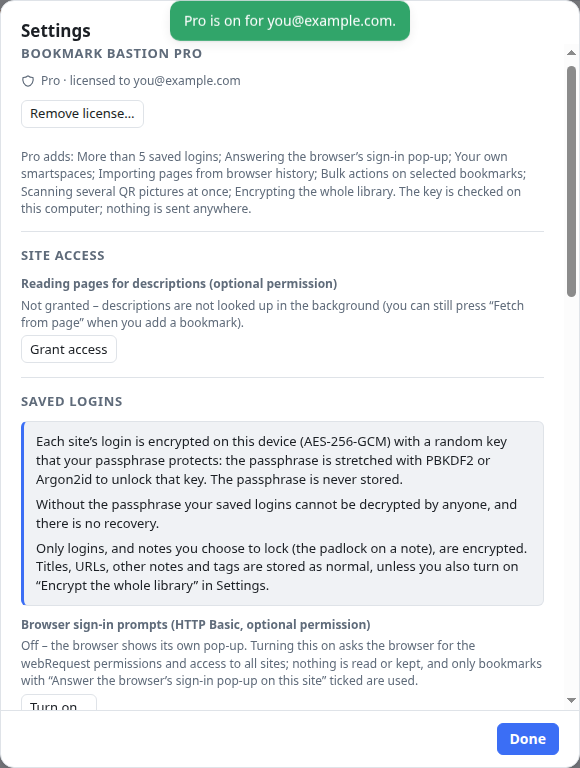
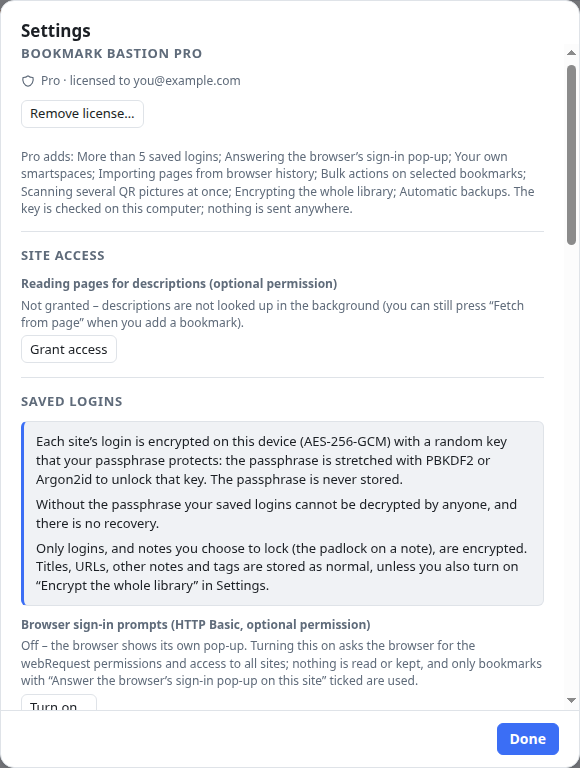
Documentation for v1.46.0
Author: DoggByte

diff --git a/README.md b/README.md
@@ -2,7 +2,7 @@
 
 **A workspace-based bookmark manager for Chromium browsers** (Chrome, Edge, Brave, Vivaldi, Opera and others). Keep every bookmark in one place and group them into as many workspaces as you like, without ever saving a page twice.
 
-- **Version:** 1.45.0 · [release notes](https://github.com/DoggByte/bookmark-bastion/releases/tag/v1.45.0) · [CHANGELOG](CHANGELOG.md)
+- **Version:** 1.46.0 · [release notes](https://github.com/DoggByte/bookmark-bastion/releases/tag/v1.46.0) · [CHANGELOG](CHANGELOG.md)
 - **Author:** DoggByte · [doggbyte.com](https://doggbyte.com) · [doggbyte@bert2go.com](mailto:doggbyte@bert2go.com)
 - **Works in:** any Chromium-based browser that runs Chrome extensions (version 110 or newer). Firefox and Safari are not supported.
 - **Privacy:** no account, no server, no tracking. Your library stays on your computer.
@@ -29,8 +29,8 @@ The full story is in the [user guide](USER-GUIDE.md), and the [tutorials](tutori
 
 Bookmark Bastion is **not in a web store**, so you install it by hand. It takes about two minutes and works the same in every Chromium browser.
 
-1. **Download** [`bookmark-bastion-v1.45.0.zip`](https://github.com/DoggByte/bookmark-bastion/releases/download/v1.45.0/bookmark-bastion-v1.45.0.zip) from the [latest release](https://github.com/DoggByte/bookmark-bastion/releases/tag/v1.45.0).
-   *(Optional: check the download against `SHA256SUMS.txt` from the same page. On Linux or macOS run `shasum -a 256 bookmark-bastion-v1.45.0.zip`, on Windows `certutil -hashfile bookmark-bastion-v1.45.0.zip SHA256`. The two values must be identical.)*
+1. **Download** [`bookmark-bastion-v1.46.0.zip`](https://github.com/DoggByte/bookmark-bastion/releases/download/v1.46.0/bookmark-bastion-v1.46.0.zip) from the [latest release](https://github.com/DoggByte/bookmark-bastion/releases/tag/v1.46.0).
+   *(Optional: check the download against `SHA256SUMS.txt` from the same page. On Linux or macOS run `shasum -a 256 bookmark-bastion-v1.46.0.zip`, on Windows `certutil -hashfile bookmark-bastion-v1.46.0.zip SHA256`. The two values must be identical.)*
 2. **Unzip it into a folder that will stay where it is**, for example `Documents\Bookmark Bastion` or `~/Apps/bookmark-bastion`. The browser loads the extension from this folder every time it starts, so do not put it in Downloads or on the Desktop, and do not delete it afterwards. After unzipping, the folder must contain a file named `manifest.json` directly inside it, not inside another folder.
 3. **Open the extensions page** of your browser: type `chrome://extensions` in the address bar (`edge://extensions` in Edge, `brave://extensions` in Brave, `vivaldi://extensions` in Vivaldi, `opera://extensions` in Opera) and press Enter.
 4. **Turn on Developer mode.** The switch is at the top right (in Edge it is at the bottom left of the page, in Opera at the top right).
@@ -68,7 +68,7 @@ The zip above never updates itself: use **Settings → Updates → Check for upd
 
 | File | What it is |
 | --- | --- |
-| `bookmark-bastion-v1.45.0.crx` | the extension, packed and signed |
+| `bookmark-bastion-v1.46.0.crx` | the extension, packed and signed |
 | `updates.xml` | tells the browser which version is the newest and where its file is |
 | `bookmark-bastion-policy.json` | the browser setting that installs the packed copy and keeps it updated |
 
@@ -76,7 +76,7 @@ The zip above never updates itself: use **Settings → Updates → Check for upd
 
 **On Linux (Brave, Chrome, Chromium or Edge):**
 
-1. Download `bookmark-bastion-policy.json` from the [latest release](https://github.com/DoggByte/bookmark-bastion/releases/tag/v1.45.0).
+1. Download `bookmark-bastion-policy.json` from the [latest release](https://github.com/DoggByte/bookmark-bastion/releases/tag/v1.46.0).
 2. Copy it into the browser's managed-policy folder (this needs `sudo`; the file name is up to you):
    - Brave: `/etc/brave/policies/managed/`
    - Chrome: `/etc/opt/chrome/policies/managed/`

diff --git a/USER-GUIDE.md b/USER-GUIDE.md
@@ -961,7 +961,7 @@ Without a license nothing is ever hidden or deleted: logins, smartspaces and set
 
 - **Getting Pro.** Go to [ko-fi.com/doggbyte](https://ko-fi.com/doggbyte) and choose **$5 for a 1-year license** or **$10 for a lifetime license**. **In the Ko-fi note, write which license you want (1-year or lifetime) and the email address to send the key to.** Your license key (it starts with `BB1.`) is sent to that address within 24 hours. Pro includes support and free updates for the length of the license you choose. The same link is in **Settings → Bookmark Bastion Pro**, under the key box, and in every notice that says a feature needs Pro.
 - **Upgrading from 1 year to lifetime.** Make another **$5** payment on Ko-fi: you only pay the difference, so the two payments add up to the $10 lifetime price. Write in the note that it is an upgrade, together with the activation key of your 1-year license and the email address to send the new key to.
-- **Entering a key.** Open **Settings → Bookmark Bastion Pro**, paste the key (it starts with `BB1.`; spaces and line breaks from a copied key are ignored) and press **Activate** or Enter. The status line then says who the license is for and when it ends, if it ends.
+- **Entering a key.** Open **Settings → Bookmark Bastion Pro**, paste the key (it starts with `BB1.`; spaces and line breaks from a copied key are ignored) and press **Activate** or Enter. A thank-you certificate opens with fireworks and confetti and their sound, which start gently, build up to a finale of many bursts at once over about a minute, and then let the last confetti fall (a soft chime and no animation if your system asks for reduced motion); press **Close**, **Esc** or click outside it to dismiss it at any time, which stops the show and the sound. The status line then says who the license is for and when it ends, if it ends.
 - **Checked on your computer.** The key carries a digital signature that the extension checks itself. Nothing is sent anywhere, no account is needed, and Pro works without a network connection. A key that was changed, cut short or made for something else is refused with a message and is not saved.
 - **A license with an end date** keeps working for 14 days after that date, so a renewal that is a little late costs nothing. After that the extension goes back to the free version; nothing you saved is deleted, and entering a renewed key turns Pro on again.
 - **Removing it.** **Remove license…** turns Pro off. Your bookmarks, logins and settings are untouched.

diff --git a/tutorials/activate-bookmark-bastion.md b/tutorials/activate-bookmark-bastion.md
@@ -43,13 +43,17 @@ Press **Activate** (or press Enter).
 
 ## 5. Check that Pro is on
 
-A green message says **Pro is on for** your email address, and the section changes:
+A certificate of appreciation opens over Settings to thank you, with fireworks, confetti and the sound of them, which start gently and build over about a minute to a finale, after which the last of the confetti finishes falling. Read it, enjoy the show, then press **Close** (or **Esc**, or the **×** in its corner). Closing it stops the fireworks and the sound at once.
+
+![The thank-you certificate for you@example.com over a sky of fireworks](images/activate-7-certificate.png)
+
+Behind it, the Pro section has changed:
 
 - The status line reads **Pro · licensed to** *your email address*. If your license has an end date, it also says **valid until** that date.
 - The key box and the **Activate** button disappear. There is nothing more to do.
 - A **Remove license…** button appears. It turns Pro off again.
 
-![Settings after activation: the green confirmation message and the status line "Pro · licensed to you@example.com"](images/activate-6-pro-on.png)
+![Settings after activation: the status line "Pro · licensed to you@example.com"](images/activate-6-pro-on.png)
 
 Press **Done**. The features that were marked **PRO** are open now.
 

diff --git a/CHANGELOG.md b/CHANGELOG.md
@@ -4,6 +4,12 @@ What changed in **Bookmark Bastion**, version by version, from the point of view
 
 ## [Unreleased]
 
+## [1.46.0] - 2026-10-18
+
+### Added
+
+- When you activate a Pro license, a certificate of appreciation now thanks you for your support, with fireworks, confetti and the sound of fireworks to go with them, which start gently and build over about a minute to a finale of many bursts at once, after which the last of the confetti finishes falling. Close it with the **Close** button, the **×**, **Esc** or a click outside; the sound stops when you do. If your system is set to reduce motion, you get the certificate and a soft chime without the animation.
+
 ## [1.45.0] - 2026-10-18
 
 ### Added
